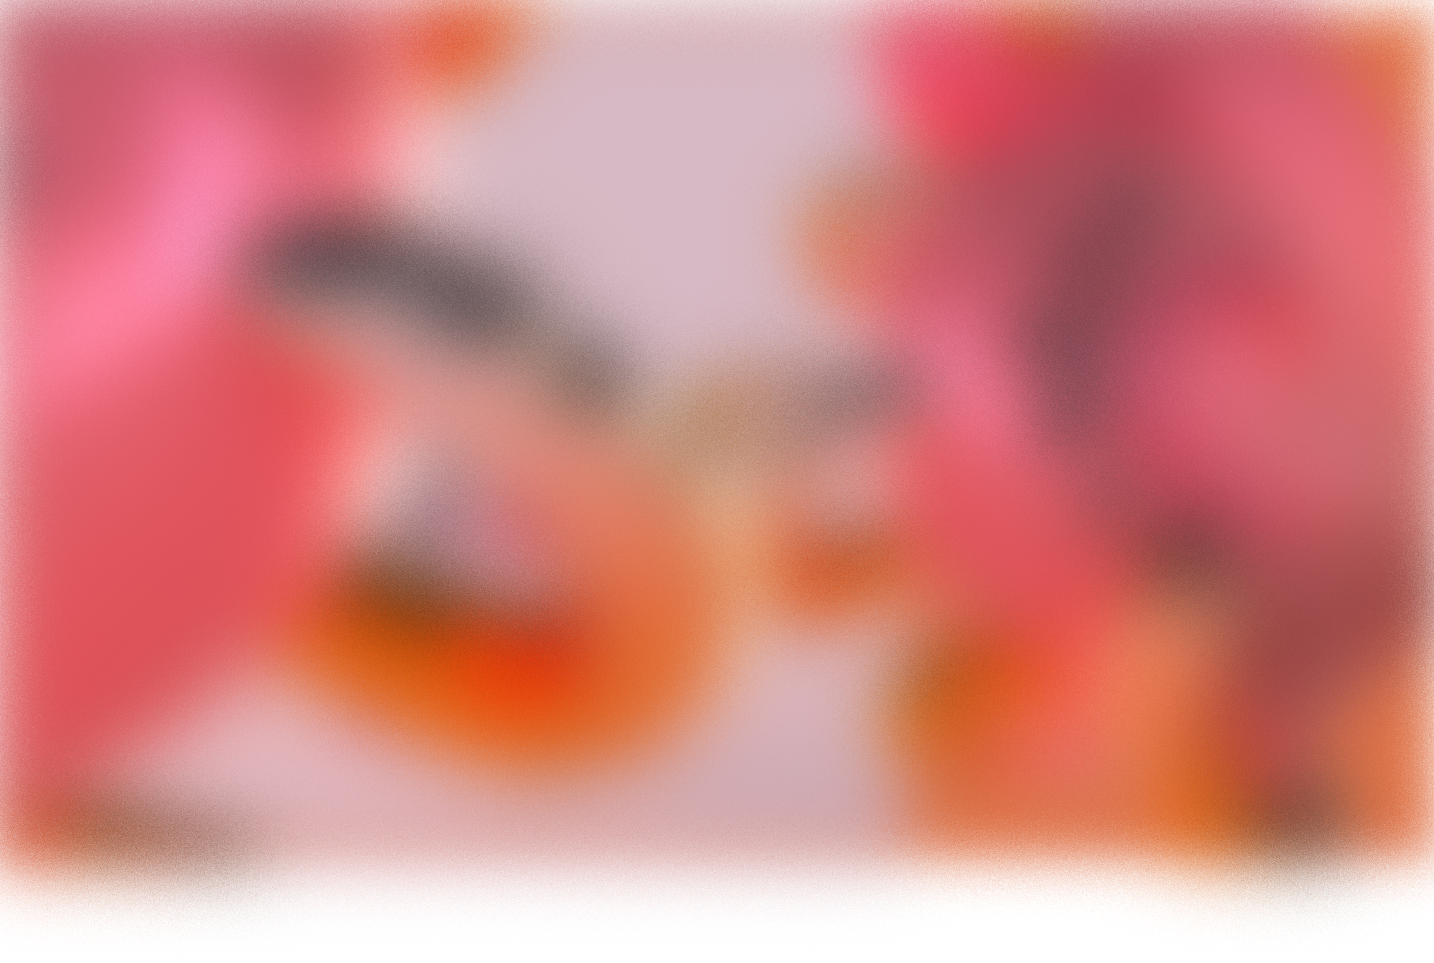
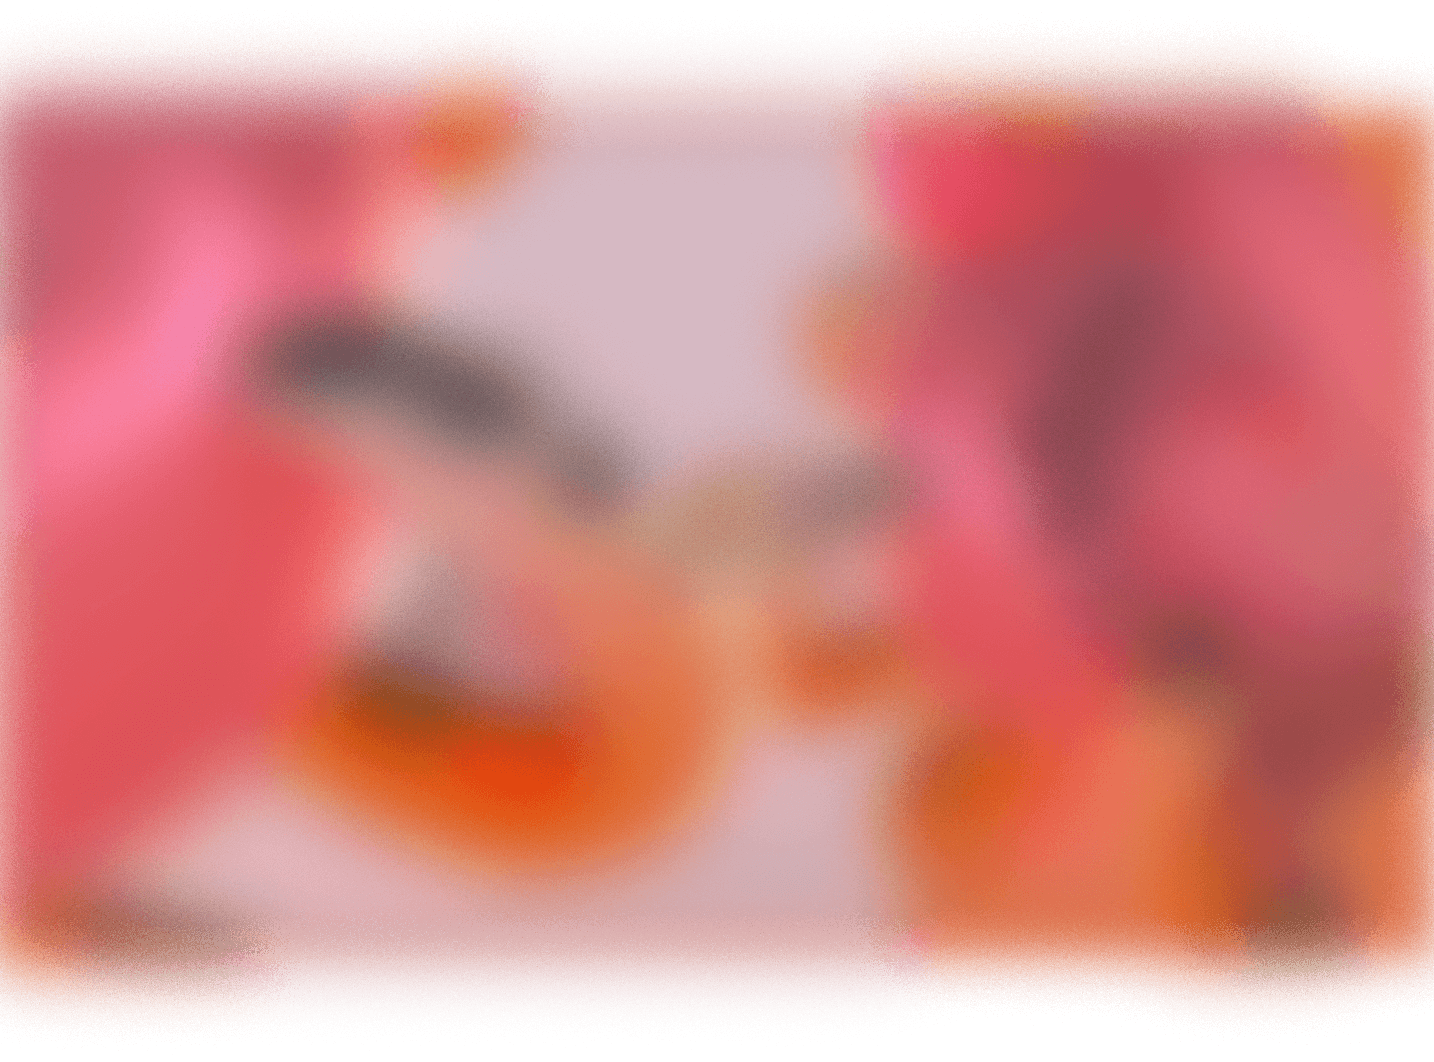
fixed blocks layout

diff --git a/src/sections/Calendar.tsx b/src/sections/Calendar.tsx
@@ -43,7 +43,7 @@ export default function Calendar() {
   return (
     <section
       id="calendar"
-      className="relative pt-20 pb-28 md:pt-20 md:pb-52 overflow-hidden z-[1]"
+      className="relative pt-20 pb-44 md:pt-20 md:pb-44 overflow-hidden z-[1]"
     >
          <div className="absolute inset-0 -z-10">
         <Image
@@ -51,7 +51,7 @@ export default function Calendar() {
           alt="Footer background"
           fill
           priority
-          className="object-cover scale-150"
+          className="object-cover scale-110"
         />
       </div>
       {/* Section Header */}

diff --git a/src/sections/Projects.tsx b/src/sections/Projects.tsx
@@ -78,7 +78,7 @@ export default function Projects() {
   return (
     <section 
       id="projects"
-      className="relative pb-20 overflow-visible bg-[#B2C29B] z-[1]"
+      className="relative py-20 overflow-visible bg-[#B2C29B] -mt-20 md:-mt-16 z-[1]"
     >
         <div className="absolute inset-0 -z-10">
         <Image
@@ -86,7 +86,7 @@ export default function Projects() {
           alt="Footer background"
           fill
           priority
-          className="object-cover scale-150"
+          className="object-cover scale-125"
         />
       </div>
 

diff --git a/src/sections/FloatingGallery.tsx b/src/sections/FloatingGallery.tsx
@@ -163,9 +163,9 @@ export default function FloatingGallery() {
     >
       {/* Background flower - different positioning for mobile/desktop */}
       <motion.div
-        className="fixed top-1/4 -z-2 pointer-events-none"
+        className="fixed top-[40%] -z-2 pointer-events-none"
         style={{
-          left: isMobile ? "23%" : "25%",
+          left: isMobile ? "20%" : "25%",
           x: isMobile ? mobileBgX : 0,
           opacity: bgOpacity,
           scale: isMobile ? mobileBgScale : bgScale,
